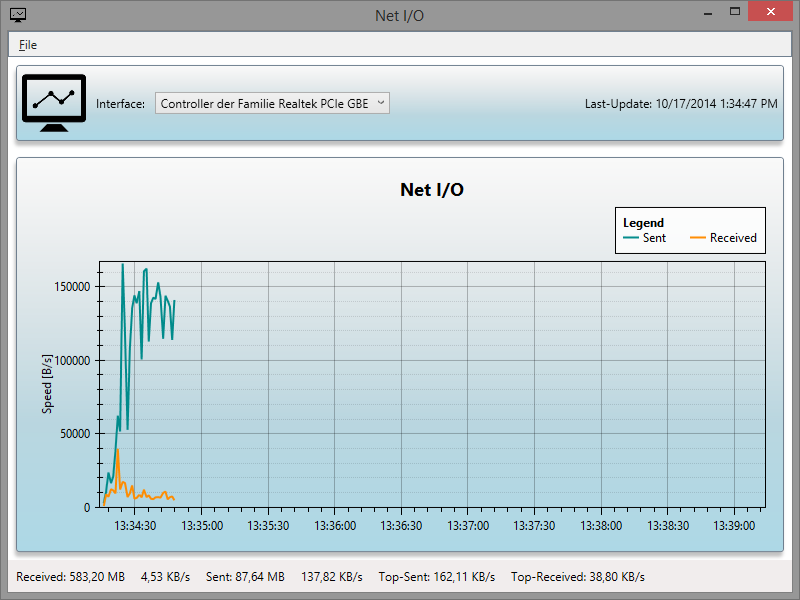
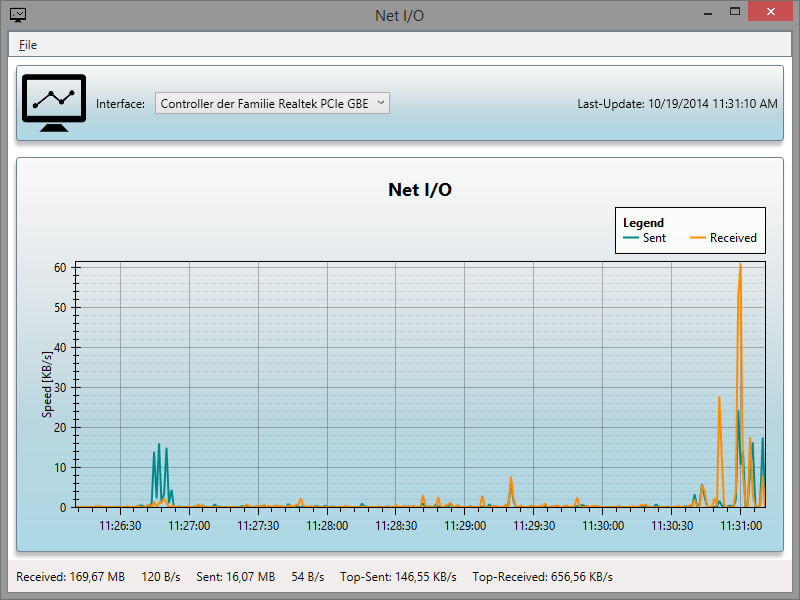
Add SetScale

diff --git a/NetIO/MainWindowViewModel.cs b/NetIO/MainWindowViewModel.cs
@@ -74,13 +74,15 @@ namespace NetIO
 
         private readonly DateTimeAxis _dateTimeAxis;
 
-        private readonly LinearAxis valueAxis;
+        private readonly LinearAxis _valueAxis;
 
         private readonly TimeSpan _maxTimeSpan = TimeSpan.FromSeconds(300);
 
         private long? _oldsentvalue;
         private long? _oldreceivedvalue;
         private readonly DispatcherTimer _timer;
+
+        private double _oldscale;
 
         public MainWindowViewModel()
         {
@@ -121,7 +123,7 @@ namespace NetIO
 
             Model.Axes.Add(_dateTimeAxis);
 
-            valueAxis = new LinearAxis
+            _valueAxis = new LinearAxis
             { 
                 Position = AxisPosition.Left,
                 Minimum = 0,
@@ -132,7 +134,7 @@ namespace NetIO
                 TickStyle = TickStyle.Crossing,
             };
 
-            Model.Axes.Add(valueAxis);
+            Model.Axes.Add(_valueAxis);
 
             _sentseries = new LineSeries
             {
@@ -201,27 +203,7 @@ namespace NetIO
                         _receivedSeries.Points.RemoveAll(d => d.X < DateTimeAxis.ToDouble(DateTime.Now - _maxTimeSpan));
                     }
 
-                    //if (_sentseries.Points.Any(d => d.Y >= 1024) || _receivedSeries.Points.Any(d => d.Y >= 1024))
-                    //{
-                    //    valueAxis.FormatAsFractions = true;
-                    //    valueAxis.FractionUnit = 1024;
-                    //    valueAxis.FractionUnitSymbol = " KB/s";
-                    //    valueAxis.Unit = "KB/s";
-                    //}
-                    //else if (_sentseries.Points.Any(d => d.Y >= 1048576) || _receivedSeries.Points.Any(d => d.Y >= 1048576))
-                    //{
-                    //    valueAxis.FormatAsFractions = true;
-                    //    valueAxis.FractionUnit = 1024;
-                    //    valueAxis.FractionUnitSymbol = " MB/s";
-                    //    valueAxis.Unit = "MB/s";
-                    //}
-                    //else
-                    //{
-                    //    valueAxis.FormatAsFractions = true;
-                    //    valueAxis.FractionUnit = 1;
-                    //    valueAxis.FractionUnitSymbol = " B/s";
-                    //    valueAxis.Unit = "B/s";
-                    //}
+                    SetScale();
                 }
             }
             LastUpdate = DateTime.Now;
@@ -252,6 +234,54 @@ namespace NetIO
                 if (_timer != null && !_timer.IsEnabled)
                     _timer.Start();
             }
+        }
+
+        private int RoundOff(double i)
+        {
+            if (Equals(i, 0.0))
+                return 1;
+            i += 5;
+            var ret = ((int)Math.Round(i / 10.0)) * 10;
+            if (Equals(ret, 0))
+                ret = 1;
+            return ret;
+        }
+
+        private void SetScale()
+        {
+            var maxsent = _sentseries.Points.Max(d => d.Y);
+            var maxreceived = _receivedSeries.Points.Max(d => d.Y);
+            var maxvalue = maxsent > maxreceived ? maxsent : maxreceived;
+
+            if (maxvalue.Equals(_oldscale))
+                return;
+
+            if (_sentseries.Points.Any(d => d.Y >= 1048576) || _receivedSeries.Points.Any(d => d.Y >= 1048576))
+            {
+                _valueAxis.FormatAsFractions = true;
+                _valueAxis.FractionUnit = 1048576;
+                //valueAxis.FractionUnitSymbol = " MB/s";
+                _valueAxis.Unit = "MB/s";
+                _valueAxis.MajorStep = 1048576 * RoundOff(Math.Round(maxvalue / (1048576 * 10)));
+            }
+            else if (_sentseries.Points.Any(d => d.Y >= 1024) || _receivedSeries.Points.Any(d => d.Y >= 1024))
+            {
+                _valueAxis.FormatAsFractions = true;
+                _valueAxis.FractionUnit = 1024;
+                //valueAxis.FractionUnitSymbol = " KB/s";
+                _valueAxis.Unit = "KB/s";
+                _valueAxis.MajorStep = 1024 * RoundOff(Math.Round(maxvalue / (1024 * 10)));
+            }
+            else
+            {
+                _valueAxis.FormatAsFractions = true;
+                _valueAxis.FractionUnit = 1;
+                //valueAxis.FractionUnitSymbol = " B/s";
+                _valueAxis.Unit = "B/s";
+                _valueAxis.MajorStep = RoundOff(Math.Round(maxvalue / 10));
+            }
+
+            _oldscale = maxvalue;
         }
     }
 }
